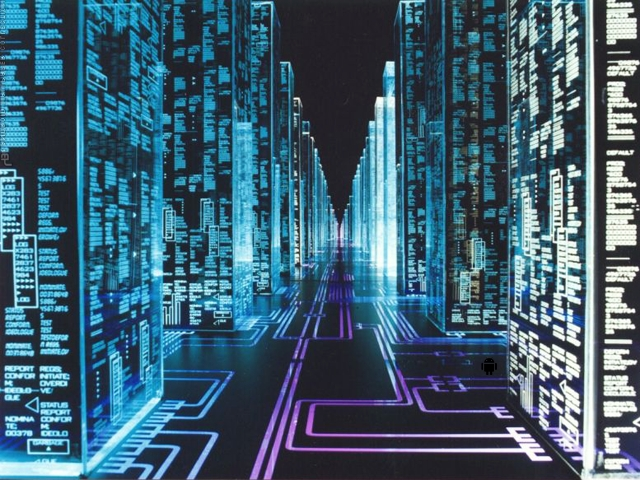
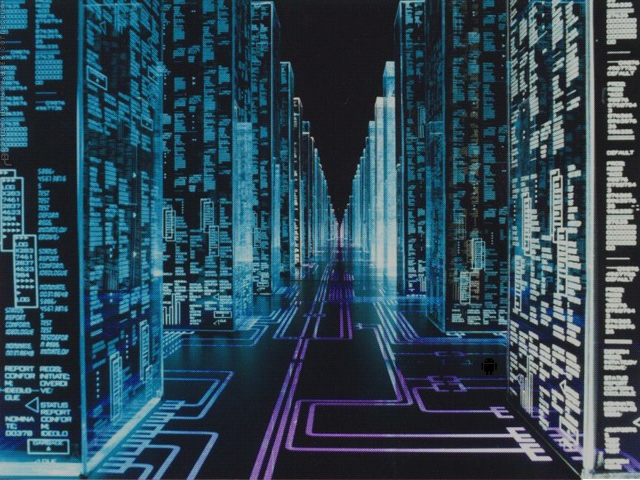
Edited some resources

diff --git a/ANNdroid/src/TeacherPanel.java b/ANNdroid/src/TeacherPanel.java
@@ -121,7 +121,7 @@ public class TeacherPanel extends JPanel{
 		leftSidePane.setBackground(Color.BLACK);		
 
 		// Create Student Pane //
-		createStudentPane = new GenericPane(getWidth() - leftSidePane.getWidth() - 200, getHeight()/3+10);
+		createStudentPane = new GenericPane(getWidth() - leftSidePane.getWidth() - 200, getHeight()/3+10, 1);
 		createStudentPane.setBounds(leftSidePane.getWidth() + 100, getHeight()/4, getWidth() - leftSidePane.getWidth() - 200, getHeight()/3+10);
 		createStudentPane.setVisible(false);
 
@@ -179,7 +179,7 @@ public class TeacherPanel extends JPanel{
 		cancelBtn1.addActionListener(new TeacherActionListener(0, 1));
 
 		// Delete Teacher Pane Initialization //
-		delStudentPane = new GenericPane(getWidth() - leftSidePane.getWidth() - 200, getHeight()/4);
+		delStudentPane = new GenericPane(getWidth() - leftSidePane.getWidth() - 200, getHeight()/4, 1);
 		delStudentPane.setBounds(leftSidePane.getWidth() + 100, getHeight()/3, getWidth() - leftSidePane.getWidth() - 200, getHeight()/4);
 		delStudentPane.setVisible(false);	
 
@@ -218,11 +218,11 @@ public class TeacherPanel extends JPanel{
 		cancelBtn2.addActionListener(new TeacherActionListener(1, 1));	
 
 		// Manage Subjects Pane //
-		manageSubjectsButtonPane = new GenericPane(getWidth()-leftSidePane.getWidth()-30, getHeight() - 180);
+		manageSubjectsButtonPane = new GenericPane(getWidth()-leftSidePane.getWidth()-30, getHeight() - 180, 1);
 		manageSubjectsButtonPane.setBounds(leftSidePane.getWidth(), getHeight()/8, getWidth()-leftSidePane.getWidth()-30, getHeight()/10);
 		manageSubjectsButtonPane.setVisible(false);
 
-		manageSubjectPane = new GenericPane(getWidth()-leftSidePane.getWidth()-30, getHeight()-(manageSubjectsButtonPane.getHeight())*3);
+		manageSubjectPane = new GenericPane(getWidth()-leftSidePane.getWidth()-30, getHeight()-(manageSubjectsButtonPane.getHeight())*3, 1);
 		manageSubjectPane.setBounds(manageSubjectsButtonPane.getX(), manageSubjectsButtonPane.getY()+ manageSubjectsButtonPane.getHeight(), getWidth()-leftSidePane.getWidth()-30, getHeight()-(manageSubjectsButtonPane.getHeight())*3);
 		manageSubjectPane.setVisible(false);
 

diff --git a/ANNdroid/src/AdminPanel.java b/ANNdroid/src/AdminPanel.java
@@ -93,7 +93,7 @@ public class AdminPanel extends JPanel{
 		leftSidePane.setBackground(Color.BLACK);
 
 		// Create Teach Pane Initialization //
-		createTeachPane = new GenericPane(getWidth() - leftSidePane.getWidth() - 200, getHeight()/3+10);
+		createTeachPane = new GenericPane(getWidth() - leftSidePane.getWidth() - 200, getHeight()/3+10, 1);
 		createTeachPane.setBounds(leftSidePane.getWidth() + 100, getHeight()/4, getWidth() - leftSidePane.getWidth() - 200, getHeight()/3+10);
 		createTeachPane.setVisible(false);
 
@@ -151,7 +151,7 @@ public class AdminPanel extends JPanel{
 		cancelBtn1.addActionListener(new AdminActionListener(0, 1));
 
 		// Delete Teacher Pane Initialization //
-		delTeachPane = new GenericPane(getWidth() - leftSidePane.getWidth() - 200, getHeight()/4);
+		delTeachPane = new GenericPane(getWidth() - leftSidePane.getWidth() - 200, getHeight()/4, 1);
 		delTeachPane.setBounds(leftSidePane.getWidth() + 100, getHeight()/3, getWidth() - leftSidePane.getWidth() - 200, getHeight()/4);
 		delTeachPane.setVisible(false);	
 
@@ -189,7 +189,7 @@ public class AdminPanel extends JPanel{
 		cancelBtn2.addActionListener(new AdminActionListener(1, 1));			
 
 		// Change Password Pane Initialization //
-		changePwordPane = new GenericPane(getWidth() - leftSidePane.getWidth() - 200, getHeight()/3);
+		changePwordPane = new GenericPane(getWidth() - leftSidePane.getWidth() - 200, getHeight()/3, 1);
 		changePwordPane.setBounds(leftSidePane.getWidth() + 100, getHeight()/3-50, getWidth() - leftSidePane.getWidth() - 200, getHeight()/3);
 		changePwordPane.setVisible(false);
 

diff --git a/ANNdroid/src/LoginPanel.java b/ANNdroid/src/LoginPanel.java
@@ -36,8 +36,8 @@ public class LoginPanel extends JPanel{
 		setPreferredSize(new Dimension(ANNdroid.SCREEN_WIDTH, ANNdroid.SCREEN_HEIGHT));
 		setBounds(0, 0, ANNdroid.SCREEN_WIDTH, ANNdroid.SCREEN_HEIGHT);
 
-		loginPane = new GenericPane(getWidth()/2, getHeight()/4);
-		loginPane.setBounds(getWidth()/4, getHeight()/3, getWidth()/2, getHeight()/4);		
+		loginPane = new GenericPane(getWidth()/2, getHeight()/4, 0);
+		loginPane.setBounds(getWidth()/4, getHeight()/3, getWidth()/2, getHeight()/4);
 		
 		errorLabel = new CustomLabel("", loginPane.getWidth()/2, 20, 0);
 		errorLabel.setBounds(loginPane.getWidth()/4, loginPane.getHeight()/3 - 30, loginPane.getWidth()/2, 20);
@@ -54,6 +54,7 @@ public class LoginPanel extends JPanel{
 		loginPane.add(unameField);
 		unameField.addFocusListener(new FieldFocusListener(0));
 		unameField.addActionListener(event -> {pwordField.requestFocus();});
+		unameField.setOpaque(false);
 
 		pwordLabel = new CustomLabel("password: ", loginPane.getWidth()/5, 20, 1);
 		pwordLabel.setBounds(loginPane.getWidth()/4, unameLabel.getY() + 30, loginPane.getWidth()/5, 20);
@@ -65,6 +66,7 @@ public class LoginPanel extends JPanel{
 		loginPane.add(pwordField);
 		pwordField.addFocusListener(new FieldFocusListener(1));
 		pwordField.addActionListener(new LoginAction(0));
+		pwordField.setOpaque(false);
 
 		loginBtn = new CustomButton("login", errorLabel.getWidth()/2, loginPane.getHeight()/7);
 		loginBtn.setBounds(errorLabel.getX(), pwordLabel.getY() + 30, errorLabel.getWidth()/2, loginPane.getHeight()/7);

diff --git a/ANNdroid/src/GenericPane.java b/ANNdroid/src/GenericPane.java
@@ -17,7 +17,7 @@ public class GenericPane extends JPanel{
 	public BufferedImage originalBGImage;
 	public BufferedImage scaledBGImage;
 
-	public GenericPane(int width, int height){
+	public GenericPane(int width, int height, int mode){
 		
 		super(null);
 
@@ -25,7 +25,8 @@ public class GenericPane extends JPanel{
 		setOpaque(false);
 
 		try{
-			originalBGImage = ImageIO.read(new File("ANNdroid/resources/img/login.png"));
+			if(mode == 0) originalBGImage = ImageIO.read(new File("ANNdroid/resources/img/login2.png"));
+			else originalBGImage = ImageIO.read(new File("ANNdroid/resources/img/panel.png"));
 		}catch(Exception e){	e.printStackTrace();	}
 
 	}
